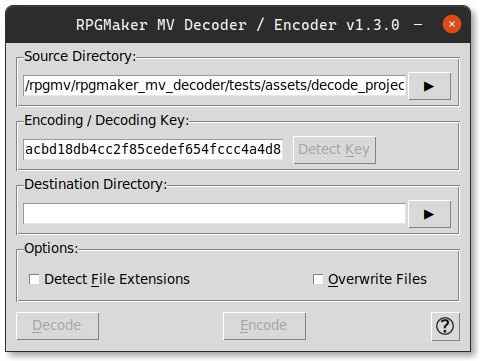
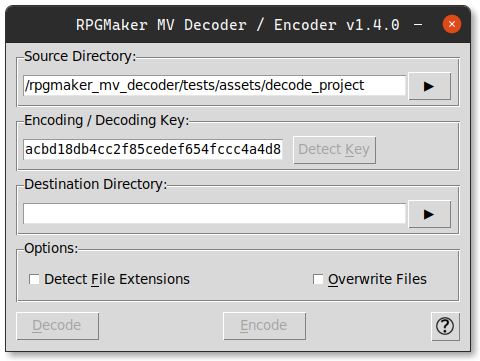
Fixing CLI, Updating history

Changed region(s): [[0.125, 0.2133, 0.8438, 0.2742], [0.7812, 0.0609, 0.8125, 0.0914]]

diff --git a/encode.py b/encode.py
@@ -4,8 +4,15 @@ import sys
 
 import click
 
+from rpgmaker_mv_decoder.callbacks import show_version
 from rpgmaker_mv_decoder.cli_help import EncodeHelp
-from rpgmaker_mv_decoder.constants import CLICK_DST_PATH, CLICK_SRC_PATH, CMD_HELP_ENCODE
+from rpgmaker_mv_decoder.constants import (
+    CLI_OVERWRITE_HELP,
+    CLI_VERSION_HELP,
+    CLICK_DST_PATH,
+    CLICK_SRC_PATH,
+    CMD_HELP_ENCODE,
+)
 from rpgmaker_mv_decoder.projectencoder import ProjectEncoder
 
 
@@ -13,16 +20,34 @@ from rpgmaker_mv_decoder.projectencoder import ProjectEncoder
 @click.argument("source", required=True, metavar="<Source>", type=CLICK_SRC_PATH)
 @click.argument("destination", required=True, metavar="<Destination>", type=CLICK_DST_PATH)
 @click.argument("key", type=str, required=True, metavar="<Key>")
-def encode(source: click.Path = None, destination: click.Path = None, key: str = None) -> None:
+@click.option(
+    "--version",
+    is_flag=True,
+    expose_value=False,
+    is_eager=True,
+    callback=show_version,
+    help=CLI_VERSION_HELP,
+)
+@click.option("--overwrite", is_flag=True, help=CLI_OVERWRITE_HELP)
+def encode(
+    source: click.Path = None,
+    destination: click.Path = None,
+    key: str = None,
+    overwrite: bool = False,
+) -> None:
     """`encode` The main function
     Args:
     - `source` (`click.Path`): Source directory
     - `destination` (`click.Path`): Destination directory
     - `key` (`str`): Hex key to use
+    - `overwrite` (`bool`): if files should be overwritten without prompting
     """
     if key is None:
         return 1
-    ProjectEncoder(source, destination, key).encode()
+    encoder: ProjectEncoder = ProjectEncoder(source, destination, key)
+    if overwrite:
+        encoder.overwrite = True
+    encoder.encode()
     return 0
 
 

diff --git a/decode.py b/decode.py
@@ -4,8 +4,16 @@ import sys
 
 import click
 
+from rpgmaker_mv_decoder.callbacks import show_version
 from rpgmaker_mv_decoder.cli_help import DecodeHelp
-from rpgmaker_mv_decoder.constants import CLICK_DST_PATH, CLICK_SRC_PATH, CMD_HELP_DECODE, TYPE_HELP
+from rpgmaker_mv_decoder.constants import (
+    CLI_OVERWRITE_HELP,
+    CLI_VERSION_HELP,
+    CLICK_DST_PATH,
+    CLICK_SRC_PATH,
+    CMD_HELP_DECODE,
+    TYPE_HELP,
+)
 from rpgmaker_mv_decoder.projectdecoder import ProjectDecoder
 from rpgmaker_mv_decoder.projectkeyfinder import ProjectKeyFinder
 
@@ -15,11 +23,21 @@ from rpgmaker_mv_decoder.projectkeyfinder import ProjectKeyFinder
 @click.argument("destination", required=True, metavar="<Destination>", type=CLICK_DST_PATH)
 @click.argument("key", type=str, required=False, metavar="[<Key>]")
 @click.option("--detect_type", is_flag=True, help=TYPE_HELP)
+@click.option(
+    "--version",
+    is_flag=True,
+    callback=show_version,
+    expose_value=False,
+    is_eager=True,
+    help=CLI_VERSION_HELP,
+)
+@click.option("--overwrite", is_flag=True, help=CLI_OVERWRITE_HELP)
 def decode(
     source: click.Path = None,
     destination: click.Path = None,
     key: str = None,
     detect_type: bool = False,
+    overwrite: bool = False,
 ) -> None:
     """`decode` The main function
 
@@ -31,7 +49,10 @@ def decode(
     """
     if key is None:
         key = ProjectKeyFinder(source).find_key()
-    ProjectDecoder(source, destination, key).decode(detect_type)
+    decoder = ProjectDecoder(source, destination, key)
+    if overwrite:
+        decoder.overwrite = True
+    decoder.decode(detect_type)
     return 0
 
 

diff --git a/rpgmaker_mv_decoder/callbacks.py b/rpgmaker_mv_decoder/callbacks.py
@@ -7,10 +7,25 @@ from typing import Callable, List, TypeVar
 import click
 from click._termui_impl import ProgressBar
 
+from rpgmaker_mv_decoder import __version__ as VERSION
 from rpgmaker_mv_decoder.messagetypes import MessageType
 from rpgmaker_mv_decoder.promptresponse import PromptResponse
 
 _T = TypeVar("_T", bound="Callbacks")
+
+
+def show_version(ctx: click.Context, _, value: bool):
+    """`show_version` Click callback that displays the version number to the user
+
+    Args:
+    - `ctx` (`click.Context`): context for options parsing
+    - `_` (`_type_`): ignored
+    - `value` (`bool`): if true, show the version number and exit
+    """
+    if not value or ctx.resilient_parsing:
+        return
+    click.echo(f"Version: {VERSION}")
+    ctx.exit()
 
 
 def _default_progressbar_callback(_: ProgressBar) -> bool:

diff --git a/rpgmaker_mv_decoder/constants.py b/rpgmaker_mv_decoder/constants.py
@@ -31,6 +31,9 @@ CLI_DECODE_KEY_STR = (
 
 CLI_ENCODE_KEY_STR = "The encoding key to use."
 
+CLI_OVERWRITE_HELP = "Overwrite files without prompting"
+CLI_VERSION_HELP = "Prints the version number"
+
 CMD_HELP_DECODE = "Decodes RPGMaker files under <Source> directory to <Destination> directory."
 
 CMD_HELP_ENCODE = "Encodes image and audio files under <Source> directory."

diff --git a/README.rst b/README.rst
@@ -109,6 +109,8 @@ Decoding
      --detect_type  Detect the file type and use the associated file extension.
                     By default .rpgmvp becomes .png and .rpgmvo becomes .ogg
                     regardless of the file contents.
+     --version      Prints the version number
+     --overwrite    Overwrite files without prompting
      --help         Show this message and exit.
 
 Encoding
@@ -129,4 +131,6 @@ Encoding
      <Key>          The encoding key to use.
 
    Options:
-     --help  Show this message and exit.
+     --version    Prints the version number
+     --overwrite  Overwrite files without prompting
+     --help       Show this message and exit.

diff --git a/README.md b/README.md
@@ -69,6 +69,8 @@ Options:
   --detect_type  Detect the file type and use the associated file extension.
                  By default .rpgmvp becomes .png and .rpgmvo becomes .ogg
                  regardless of the file contents.
+  --version      Prints the version number
+  --overwrite    Overwrite files without prompting
   --help         Show this message and exit.
 ```
 
@@ -88,5 +90,7 @@ Arguments:
   <Key>          The encoding key to use.
 
 Options:
-  --help  Show this message and exit.
+  --version    Prints the version number
+  --overwrite  Overwrite files without prompting
+  --help       Show this message and exit.
 ```

diff --git a/HISTORY.rst b/HISTORY.rst
@@ -14,6 +14,7 @@ History
 * Renamed callback module to callbacks
 * Refactored messaging to user
 * Better package information
+* Added --overwrite and --version to options for CLI tools
 
 1.3.0 (2022-05-04)
 ------------------
